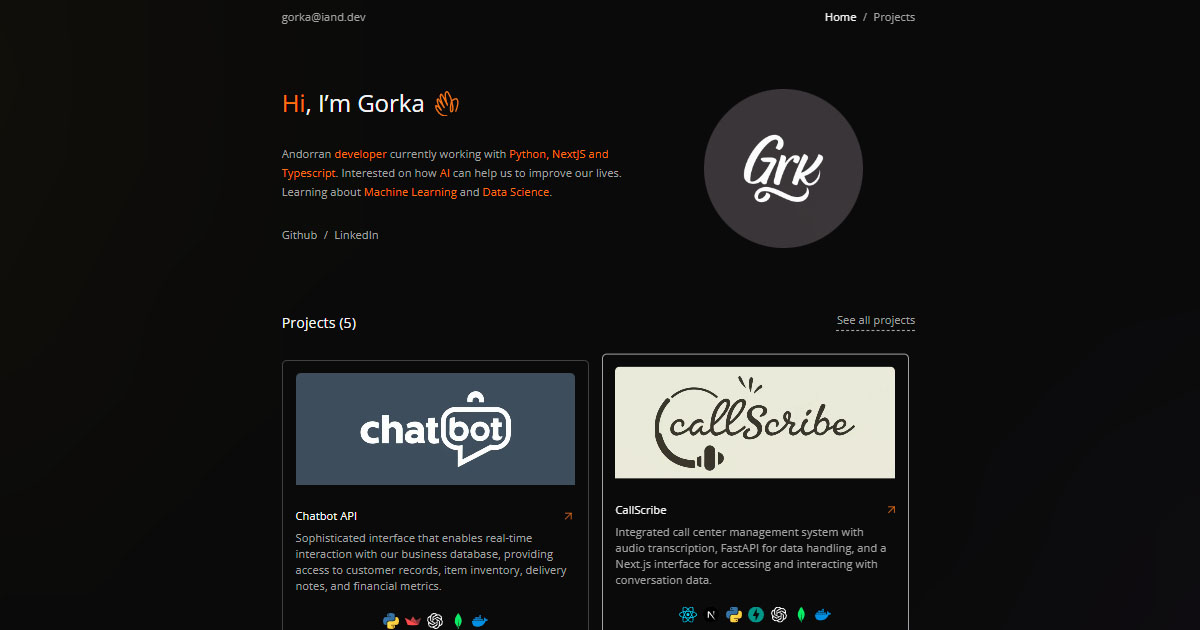
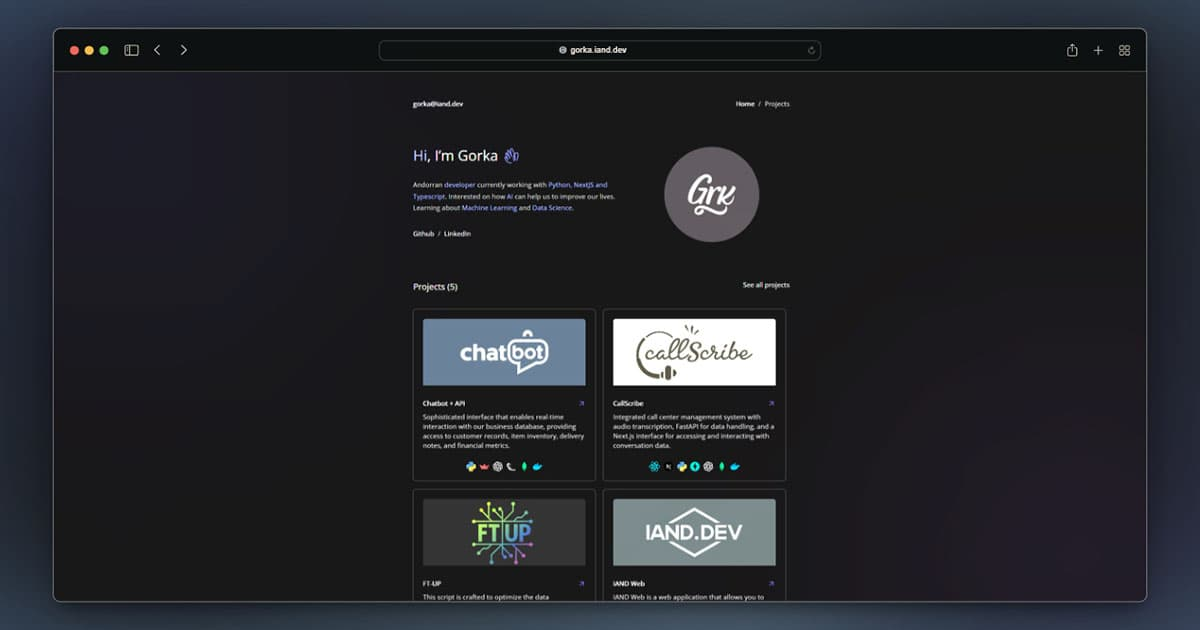
Update profile image in presentation.ts

diff --git a/src/data/presentation.ts b/src/data/presentation.ts
@@ -14,7 +14,7 @@ type Presentation = {
 const presentation: Presentation = {
   mail: "gorka@iand.dev",
   title: "*Hi*, I’m Gorka ",
-  profile: "/12.jpeg",
+  profile: "/profile-logo.webp",
   description:
     "Andorran *developer* currently working with *Python, NextJS and Typescript*. Interested on how *AI* can help us to improve our lives. Learning about *Machine Learning* and *Data Science*.",
 
